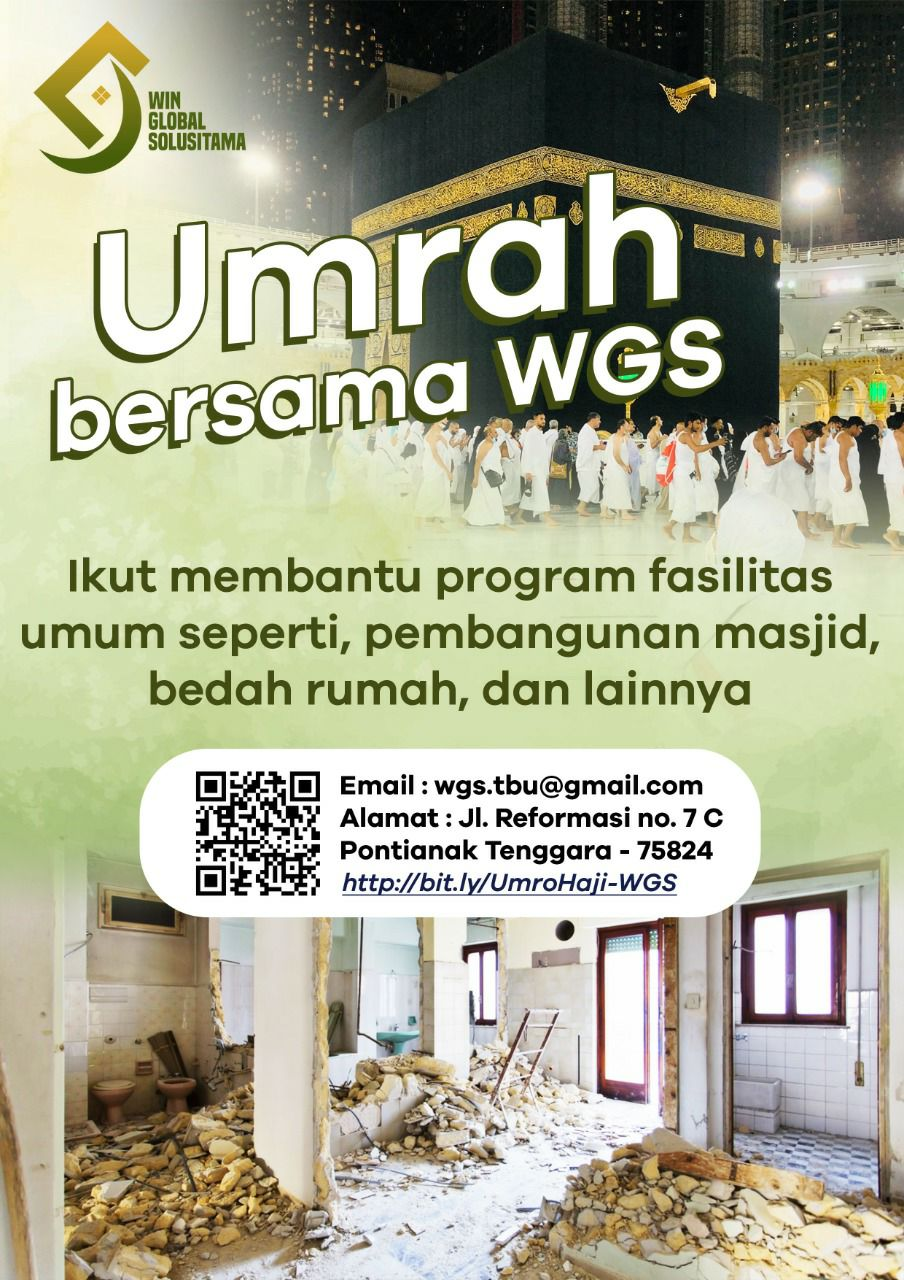
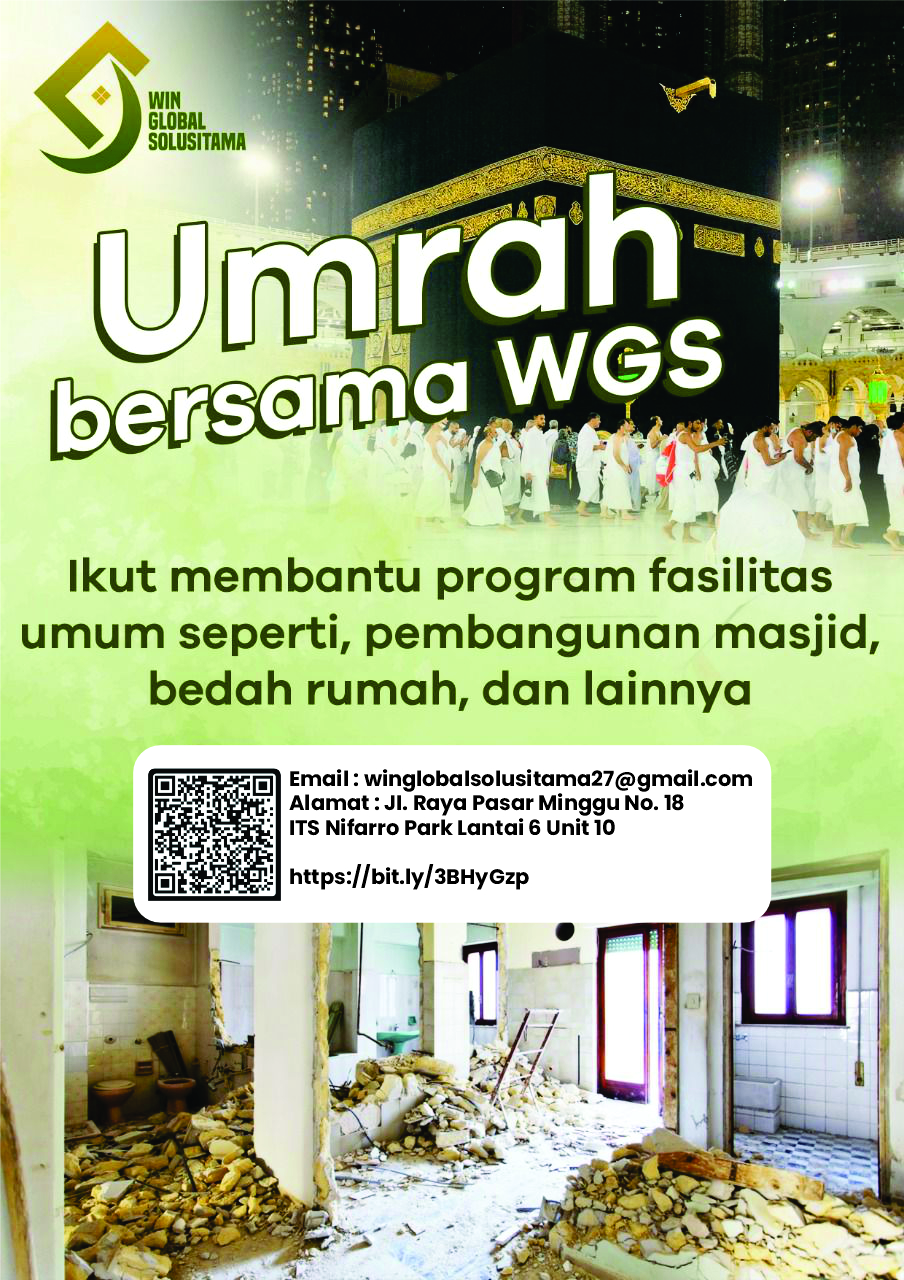
Edit gambar Barcode dan alamat

diff --git a/index.html b/index.html
@@ -879,7 +879,92 @@
             </div>
           </div>
           <div class="col-md-6 p-0">
-            <div id="map" class="half-map bg-img-map"></div>
+            <!-- <div id="map" class="half-map bg-img-map"></div> -->
+
+            <!--Contact Start-->
+            <section>
+              <div class="container">
+                <!--Heading-->
+                <div class="row">
+                  <div class="col-md-12 text-center">
+                    <div class="title d-inline-block">
+                      <h6 class="mb-3 third-color">Kontak Kami</h6>
+                      <h2>Hubungi kami untuk konsultasi :</h2>
+                    </div>
+                  </div>
+                </div>
+
+                <!--contact us-->
+
+                <form
+                  class="contact-form"
+                  action="https://api.whatsapp.com/send"
+                  method="get"
+                >
+                  <div class="row">
+                    <div class="col-sm-12">
+                      <div class="col-md-12 col-sm-12">
+                        <div class="form-group">
+                          <input
+                            class="form-control"
+                            type="text"
+                            id="name"
+                            name="name"
+                            placeholder="Nama Lengkap"
+                          />
+                        </div>
+                      </div>
+                      <div class="col-md-12 col-sm-12">
+                        <div class="form-group">
+                          <input
+                            class="form-control"
+                            type="email"
+                            id="email"
+                            name="email"
+                            placeholder="Email"
+                          />
+                        </div>
+                      </div>
+                      <div class="col-md-12 col-sm-12">
+                        <div class="form-group">
+                          <input
+                            type="hidden"
+                            id="phone"
+                            name="phone"
+                            value="+6287854442438"
+                          />
+                        </div>
+                      </div>
+
+                      <div class="col-md-12 col-sm-12">
+                        <div class="form-group">
+                          <textarea
+                            class="form-control"
+                            id="message"
+                            name="text"
+                            placeholder="Masukkan Pesan"
+                          ></textarea>
+                        </div>
+                      </div>
+
+                      <input type="hidden" name="source" value="contact_form" />
+                      <button
+                        type="submit"
+                        class="btn btn-large btn-gradient btn-rounded mt-4"
+                        value="Kirim Pesan"
+                      >
+                        <i
+                          class="fa fa-spinner fa-spin mr-2 d-none"
+                          aria-hidden="true"
+                        ></i>
+                        <span>Kirim Pesan</span>
+                      </button>
+                    </div>
+                  </div>
+                </form>
+              </div>
+            </section>
+            <!--Contact End-->
           </div>
         </div>
       </div>
@@ -914,94 +999,6 @@
       </div>
     </section>
     <!--Portfolio end-->
-
-    <!--Contact Start-->
-    <section>
-      <div class="container">
-        <!--Heading-->
-        <div class="row">
-          <div class="col-md-12 text-center">
-            <div class="title d-inline-block">
-              <h6 class="mb-3 third-color">Kontak Kami</h6>
-              <h2>
-                Hubungi kami jika ada pertanyaan melalui form whatsapp dibawah
-                ini
-              </h2>
-            </div>
-          </div>
-        </div>
-
-        <!--contact us-->
-
-        <form
-          class="contact-form"
-          action="https://api.whatsapp.com/send"
-          method="get"
-        >
-          <div class="row">
-            <div class="col-sm-12">
-              <div class="col-md-12 col-sm-12">
-                <div class="form-group">
-                  <input
-                    class="form-control"
-                    type="text"
-                    id="name"
-                    name="name"
-                    placeholder="Nama Lengkap"
-                  />
-                </div>
-              </div>
-              <div class="col-md-12 col-sm-12">
-                <div class="form-group">
-                  <input
-                    class="form-control"
-                    type="email"
-                    id="email"
-                    name="email"
-                    placeholder="Email"
-                  />
-                </div>
-              </div>
-              <div class="col-md-12 col-sm-12">
-                <div class="form-group">
-                  <input
-                    type="hidden"
-                    id="phone"
-                    name="phone"
-                    value="+6287854442438"
-                  />
-                </div>
-              </div>
-
-              <div class="col-md-12 col-sm-12">
-                <div class="form-group">
-                  <textarea
-                    class="form-control"
-                    id="message"
-                    name="text"
-                    placeholder="Masukkan Pesan"
-                  ></textarea>
-                </div>
-              </div>
-
-              <input type="hidden" name="source" value="contact_form" />
-              <button
-                type="submit"
-                class="btn btn-large btn-gradient btn-rounded mt-4"
-                value="Kirim Pesan"
-              >
-                <i
-                  class="fa fa-spinner fa-spin mr-2 d-none"
-                  aria-hidden="true"
-                ></i>
-                <span>Kirim Pesan</span>
-              </button>
-            </div>
-          </div>
-        </form>
-      </div>
-    </section>
-    <!--Contact End-->
 
     <!--Footer Start-->
     <section class="bg-light text-center">
